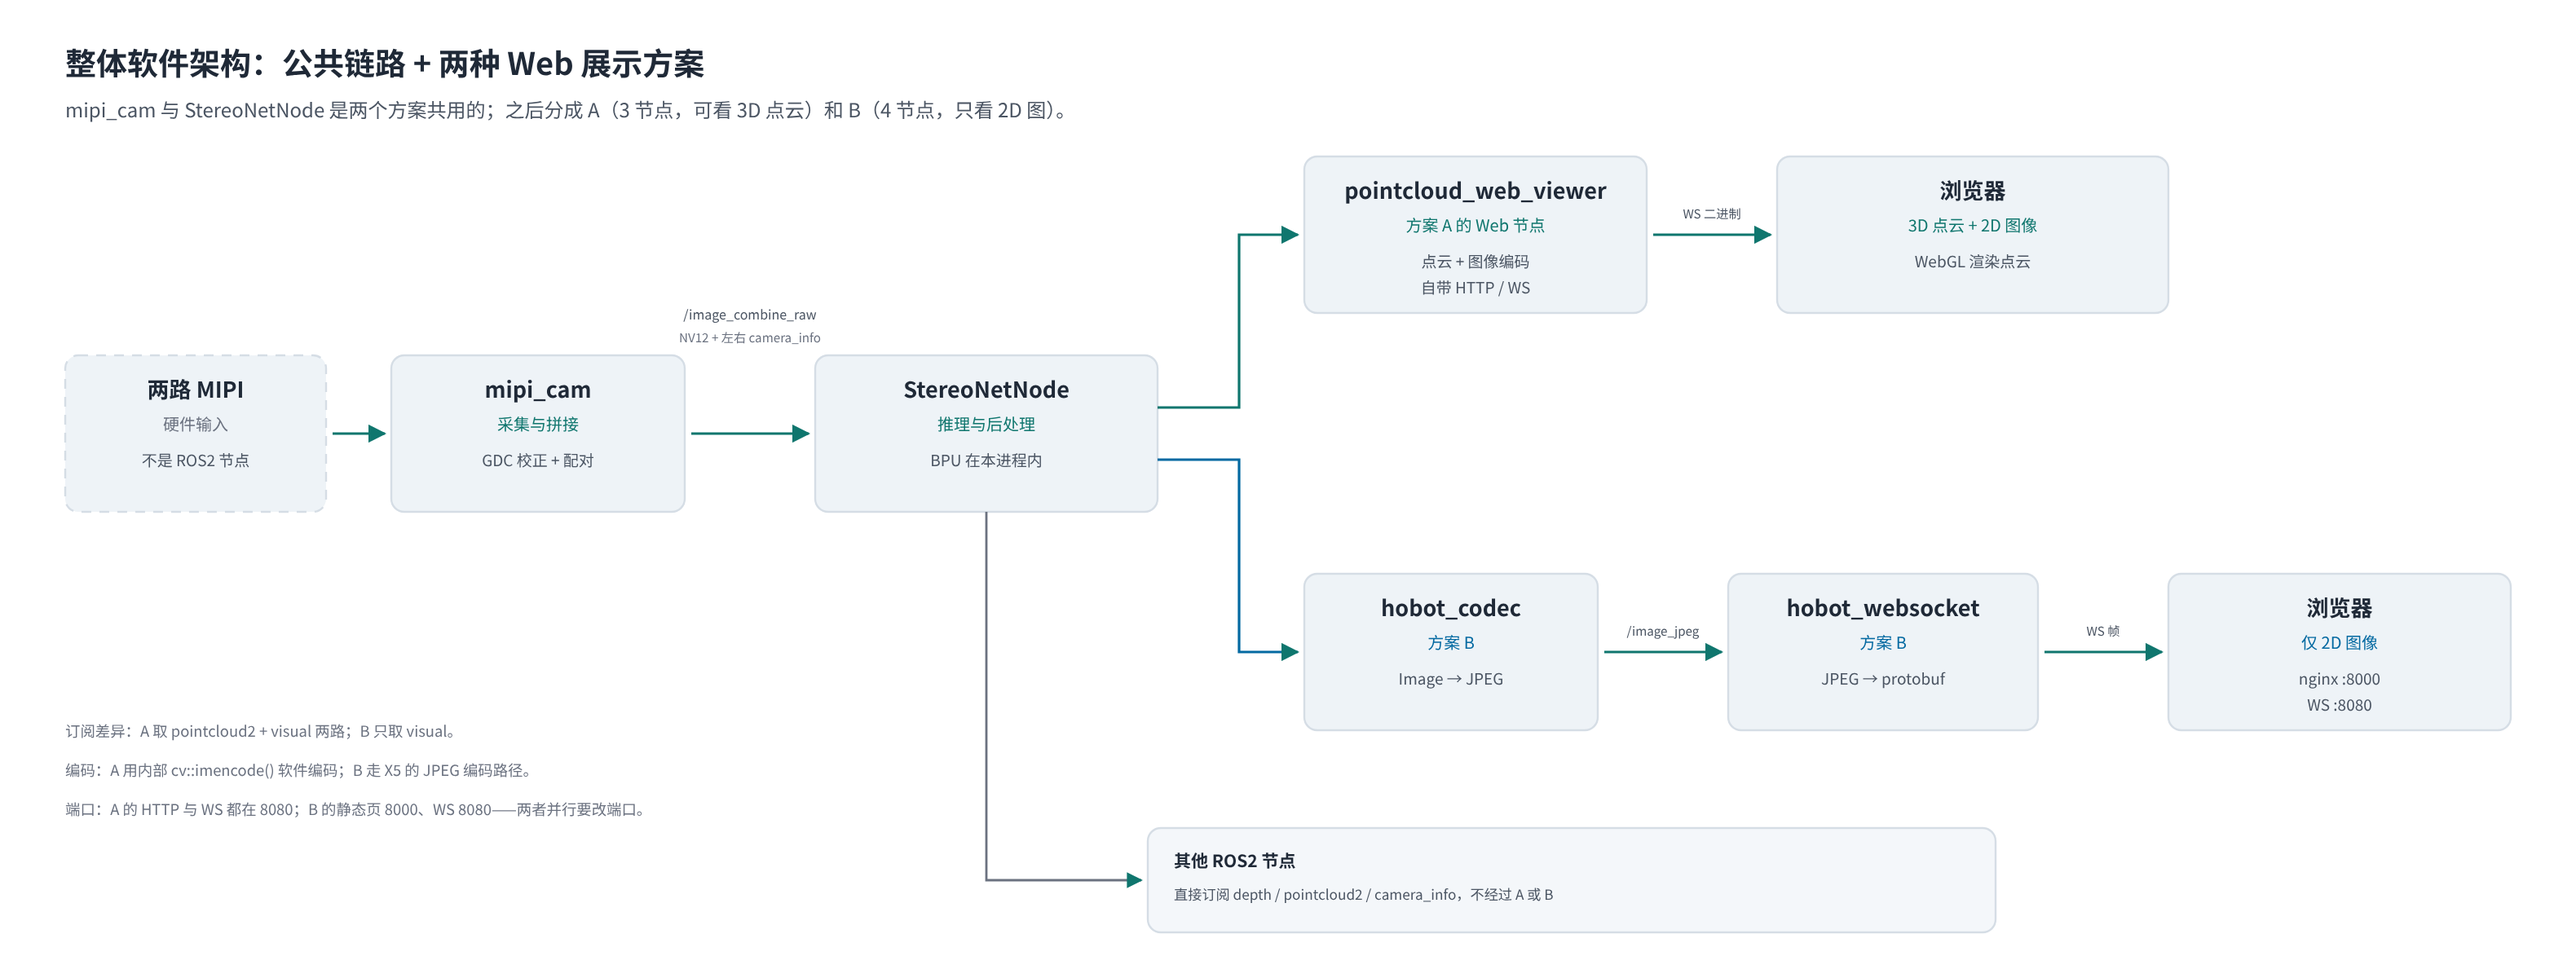
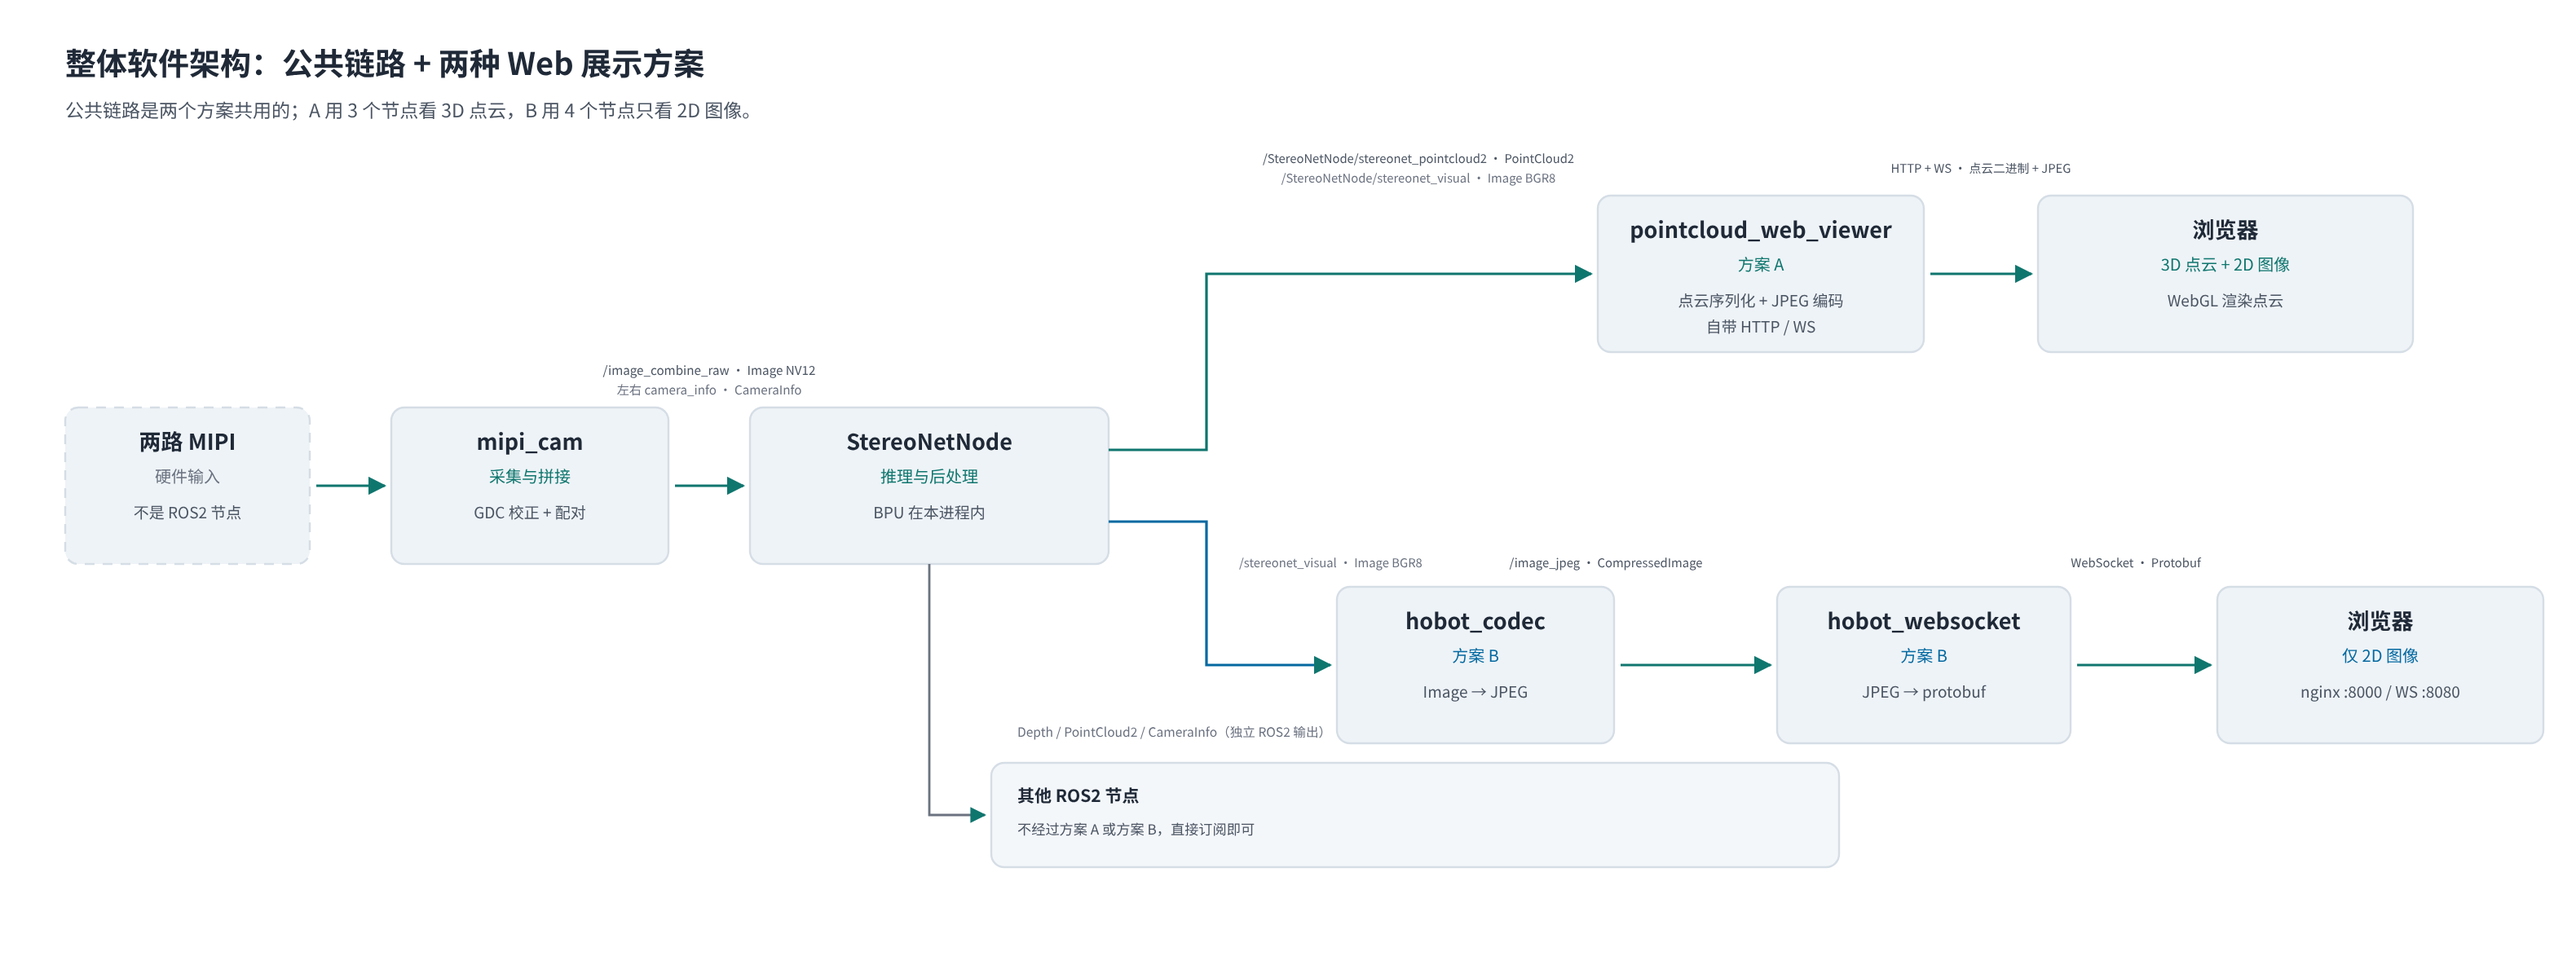
Sync hobot_stereonet, 3rd Feishu revision of chapter 1
Feishu doc updated again 2026-11-03:
- 节点接口表由 7 列合并为 5 列（输入/输出各含 Topic + 类型），并补充说明：
  省略 /StereoNetNode/ 命名空间前缀；本表只列主要接口（mipi_cam 在
  dual_combine=1 时还发 /image_left_raw、/image_right_raw）。
- 1.2 由 4 条列表改为 6 行 A/B 对比表（展示节点 / 节点总数 / 展示能力 /
  浏览器数据 / JPEG 编码 / Web 服务），并补 ImageCodec 与点云接口说明。
- 开头两段移到后文：板况与源码依据说明 → 第 6 章开头；环境（X5 + SC132GS、
  TROS 3.5.0、DStereoV2.4_int16、30 fps）→ 第 7 章开头。
- images/fig_architecture.png: 图 1 第 3 次换版（197,198 -> 179,779 B，
  连线补上 Topic 与消息类型标注）。其余 4 张图飞书换 token 但字节未变。
- 根 README.md: 同步说明改为「三次同步」。

diff --git a/hobot_stereonet/README.md b/hobot_stereonet/README.md
@@ -2,47 +2,50 @@
 
 > 来源：飞书文档《X5 双目深度链路：从 MIPI 到 WebSocket》
 > <https://horizonrobotics.feishu.cn/docx/OHSzdPn7TowBchxCMvccyuNFnEd>，2026-11-02 转换为 Markdown；
-> 2026-11-03 两次同步第 1 章：先「四个进程」→「整体软件架构 / 节点接口」，再新增 1.2「两种 Web 展示方案的区别」、
-> 节点接口表加「方案」列、图 1 改为「整体软件架构：公共链路 + 两种 Web 展示方案」。
+> 2026-11-03 同步第 1 章三次改版：结构由「四个进程」→「整体软件架构 / 节点接口 / 两种 Web 展示方案」，
+> 节点接口表合并为 5 列，1.2 改为 A/B 对比表，开头环境与板况两段移入第 6、7 章；图 1 三次换版。
 > 图片经飞书文档素材接口下载后存放于 [`images/`](images/)。
-
-这套文档讲 RDK X5 加 SC132GS 双目模组上的一条深度链路：模型 DStereoV2.4_int16，TROS 3.5.0（stereonet 2.5.6、mipi-cam 2.5.2、codec 2.3.5），30 fps 采集。
-
-板 192.168.1.15 从 10 月 28 日起 ping 不通，所以硬件流水线、拆图与丢帧这几块只有源码依据，其余数字是之前实测的。
 
 ## 1. 整体软件架构
 
-公共部分是 `mipi_cam` 和 `StereoNetNode`：前者把两路 sensor 拼成一张图，后者拆图推理出视差、深度和点云。之后在「怎么送到浏览器」这一步分成两种方案。
+公共部分是 `mipi_cam` 和 `StereoNetNode`：前者把两路 sensor 拼成一张图，后者拆图推理出视差、深度和点云。之后在「怎么送到浏览器」这一步分成两种方案——方案 A 用 `pointcloud_web_viewer`（3 个节点，浏览器能看 3D 点云和 2D 图像），方案 B 用 `hobot_codec` + `hobot_websocket`（4 个节点，浏览器只能看 2D 图像）。
 
-- **方案 A**：`pointcloud_web_viewer` 订阅点云和可视化图像，自己编码并起 HTTP / WebSocket 服务，浏览器能看 3D 点云和 2D 图像。共 3 个节点。
-- **方案 B**：`hobot_codec` 把可视化图像压成 JPEG，`hobot_websocket` 封成 protobuf 帧推流，浏览器只能看 2D 图像。共 4 个节点。
-
-本文档记录的是方案 B（TROS 3.5.0 + DStereoV2.4_int16）。当前 develop 的 `stereonet_model_web_visual.launch.py` 里 `enable_web_viewer` 默认 True，起的是方案 A。
+本文档记录的是方案 B（TROS 3.5.0 + DStereoV2.4_int16）；当前 develop 的 `stereonet_model_web_visual.launch.py` 里 `enable_web_viewer` 默认 True，起的是方案 A。
 
 ### 1.1 节点接口
 
-| Node | 方案 | 职责 | 输入 / 订阅 | 输入类型 | 输出 / 发布 | 输出类型 |
-|-|-|-|-|-|-|-|
-| `mipi_cam` | A、B | 双目采集、GDC 校正、左右配对与拼接 | 两路 MIPI sensor | RAW10（硬件输入，不是 Topic） | `/image_combine_raw`、`/image_combine_raw/left/camera_info`、`/image_combine_raw/right/camera_info` | `Image`（NV12）、`CameraInfo` |
-| `StereoNetNode` | A、B | 拆图、BPU 推理、后处理与发布 | `/image_combine_raw`、左右 `camera_info` | `Image`、`CameraInfo` | `/StereoNetNode/stereonet_visual`、`/StereoNetNode/stereonet_depth`、`/StereoNetNode/stereonet_pointcloud2`、深度与校正图的 `camera_info` | `Image`（BGR8 / mono16）、`PointCloud2`、`CameraInfo` |
-| `pointcloud_web_viewer` | A | 点云与图像编码、HTTP / WebSocket 服务 | `/StereoNetNode/stereonet_pointcloud2`、`/StereoNetNode/stereonet_visual` | `PointCloud2`、`Image`（BGR8） | HTTP 页面与 WebSocket 二进制（点云、JPEG 图像） | 网络数据，不是 Topic |
-| `hobot_codec` | B | 可视化图像编码为 JPEG | `/StereoNetNode/stereonet_visual` | `Image`（BGR8） | `/image_jpeg` | `CompressedImage`（JPEG） |
-| `hobot_websocket` | B | JPEG 封装成帧并推送 | `/image_jpeg` | `CompressedImage` | WebSocket 数据流 | protobuf 二进制，不是 Topic |
+| Node | 方案 | 职责 | 输入（Topic · 类型） | 输出（Topic · 类型） |
+|-|-|-|-|-|
+| `mipi_cam` | A、B | 采集、GDC 校正、配对拼接 | 两路 MIPI sensor（RAW10，硬件输入） | `/image_combine_raw`（Image / NV12）、左右 `camera_info`（CameraInfo） |
+| `StereoNetNode` | A、B | 推理、后处理、发布 | `/image_combine_raw`（Image）、左右 `camera_info` | `stereonet_visual`（Image / BGR8）、`stereonet_depth`（Image / mono16）、`stereonet_pointcloud2`（PointCloud2）、`camera_info` |
+| `pointcloud_web_viewer` | A | 点云序列化、JPEG 编码、HTTP / WS 服务 | `stereonet_pointcloud2`（PointCloud2）、`stereonet_visual`（Image） | HTTP + WebSocket（网络数据，非 Topic） |
+| `hobot_codec` | B | 可视化图像编码为 JPEG | `stereonet_visual`（Image / BGR8） | `/image_jpeg`（CompressedImage） |
+| `hobot_websocket` | B | JPEG 封装成帧并推送 | `/image_jpeg`（CompressedImage） | WebSocket（protobuf，非 Topic） |
 
-五种 Node 不同时启用：A 起 3 个，B 起 4 个。B 里 `StereoNetNode` 照常发布点云，只是这条链路没有节点订阅它。传感器、BPU、浏览器和 nginx 都不是 ROS2 节点。
+表里除 `/image_combine_raw`、`/image_jpeg` 外，其余 Topic 都在 `/StereoNetNode/` 命名空间下，这里省略了前缀。五种 Node 不同时启用：A 起 3 个、B 起 4 个；传感器、BPU、浏览器、nginx 都不是 ROS2 节点。
 
-本方案的尺寸：合帧 NV12 640×704（每眼 640×352），`visual` 为 BGR8 640×704，深度为 16 位 640×352；这些是本次配置，不是组件的固定要求。
+本表只列主要接口，不是全部：`mipi_cam` 在 `dual_combine=1` 时还发 `/image_left_raw`、`/image_right_raw`，`StereoNetNode` 还发左右校正图，这些都放在各节点章节。
+
+本方案的尺寸：合帧 NV12 640×704（每眼 640×352），`visual` 为 BGR8 640×704，深度 16 位 640×352。这些是本次配置，不是组件的固定要求。
 
 ### 1.2 两种 Web 展示方案的区别
 
-- **A 能看 3D 点云**：它同时订阅 `stereonet_pointcloud2` 和 `stereonet_visual`；点云被转成紧凑的自定义二进制走 WebSocket，浏览器用 WebGL 渲染。
-- **B 只能看 2D**：`hobot_codec` 只订阅 `visual`，点云话题在 B 里没有订阅者，所以浏览器拿不到点云。
-- **编码方式不同**：A 用它内部的 `cv::imencode()` 做软件 JPEG 编码，不依赖 `hobot_codec`；B 走 X5 的 JPEG 编码路径。
-- **端口**：A 的 HTTP 与 WebSocket 都在 8080；B 的静态页在 8000、WebSocket 在 8080。两套方案并行要改端口。
+| 比较项 | 方案 A | 方案 B |
+|-|-|-|
+| Web 展示节点 | `pointcloud_web_viewer` | `hobot_codec` + `hobot_websocket` |
+| ROS2 节点总数 | 3 | 4 |
+| Web 展示能力 | 3D 点云 + 2D 图像 | 仅 2D 图像 |
+| 浏览器收到的数据 | 自定义点云二进制 + JPEG | JPEG 经 Protobuf 封装 |
+| JPEG 编码 | Viewer 内部 OpenCV `cv::imencode()` | X5 的 JPEG 编码路径 |
+| Web 服务 | Viewer 内置 HTTP / WebSocket | nginx 提供静态页，WebSocket 节点推送 |
+
+方案 A 订阅 `stereonet_pointcloud2` 和 `stereonet_visual` 两路：点云转成自定义二进制给浏览器做 WebGL 渲染，图像用 `ImageCodec` 软件编码成 JPEG，不依赖 `hobot_codec`。方案 B 只订阅 `stereonet_visual`，点云不进这条 Web 链路，所以浏览器只能看 2D；`StereoNetNode` 仍提供点云接口，其他节点可以按需订阅。
+
+端口：A 的 HTTP 与 WebSocket 通常都在 8080；B 的静态页在 8000、WebSocket 在 8080。并行启动时要避免冲突。
 
 ![整体软件架构：公共链路 + 方案 A / B](images/fig_architecture.png)
 
-> **补充图（非飞书原文）**：同一套链路的节点与数据流总览。相对图 1，它额外标出 BPU 4 个量化张量的字节数、CPU 产物到对外话题的对应关系，以及方案 A 的实测开销（订阅点云后 `StereoNetNode` CPU 增 20–30%，viewer 自身约 47% CPU / 116 MB）。
+> **补充图（非飞书原文）**：同一套链路的节点与数据流总览。相对上面的架构图，它额外标出 BPU 4 个量化张量的字节数、CPU 产物到对外话题的对应关系，以及方案 A 的实测开销（订阅点云后 `StereoNetNode` CPU 增 20–30%，viewer 自身约 47% CPU / 116 MB）。
 
 ![节点与数据流总览：方案 B（codec + websocket，默认）与方案 A（pointcloud_web_viewer，仅 develop）](images/node_graph.png)
 
@@ -195,6 +198,8 @@ jpeg 大小由质量和画面内容共同决定，源码里没有码率上限，
 
 ## 6. 待验证
 
+板 192.168.1.15 从 10 月 28 日起 ping 不通，下面这些项没法上板核实；其中硬件流水线、拆图与丢帧只有源码依据。
+
 | 位置 | 待验证项 | 方法 |
 |-|-|-|
 | 3.1 | 现场实际 `stream_mode`、`rotation`、`cal_rotation`、`gdc_enable`、`sub_stream_enable` | `ros2 param get /mipi_cam stream_mode` 等 |
@@ -216,6 +221,8 @@ jpeg 大小由质量和画面内容共同决定，源码里没有码率上限，
 上板注意：反复 kill cam-service 后 ISP 资源可能不释放（`ISC_IOCTL_BIND fail`），需重启板；`/usr/hobot` 只读，写库前 `mount -o remount,rw /usr/hobot`。
 
 ## 7. 复现命令
+
+环境：RDK X5 + SC132GS 双目模组，TROS 3.5.0（stereonet 2.5.6、mipi-cam 2.5.2、codec 2.3.5），模型 DStereoV2.4_int16，30 fps。
 
 ```bash
 ros2 topic echo /image_combine_raw --once --field width
